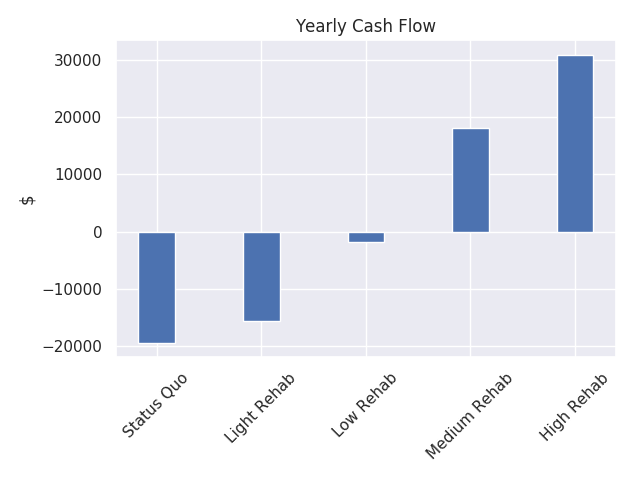
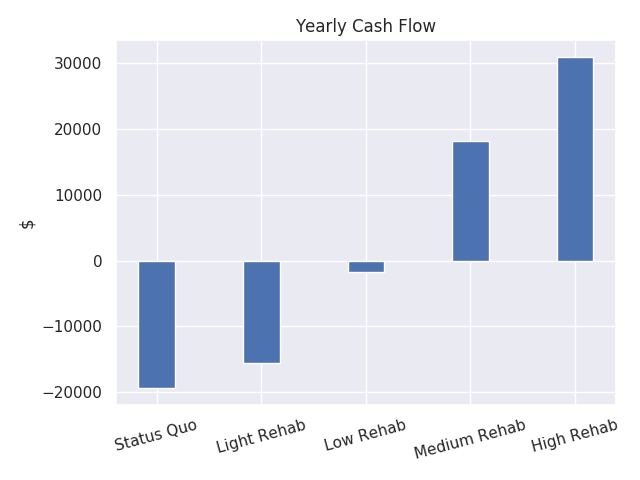
update

diff --git a/mom_financial_projection.py b/mom_financial_projection.py
@@ -55,7 +55,7 @@ columns = ['bdr_g', 'p_g', 'bdr_h', 'p_h',
 pd.DataFrame(scenes, columns = columns).to_csv('scenarios.csv', index=False)
 data.to_csv('house.csv', index=False)
 #print(data.groupby('Type1').sum())
-monthly_cashflow = [ 12*x[-1] for x in scenes]
+monthly_cashflow = [ x[-1] for x in scenes]
 names = ['Status Quo', 'Light Rehab', 'Low Rehab', 'Medium Rehab', 
          'High Rehab']
 
@@ -63,10 +63,10 @@ fig, ax = plt.subplots()
 #fig.figsize=(15,15)
 ax.bar(names, monthly_cashflow, .35)
 ax.set_ylabel('$')
-ax.set_title('Yearly Cash Flow')
-plt.xticks(rotation=45)
+ax.set_title('Monthly Cash Flow')
+plt.xticks(rotation=15)
 plt.tight_layout()
-plt.savefig('yearly_cash_flow')
+plt.savefig('monthly_cash_flow')
 plt.show()
 ## monthly cash flow
 #total_monthly_cashflow = total_monthly_income_current - total_monthly_expenses
